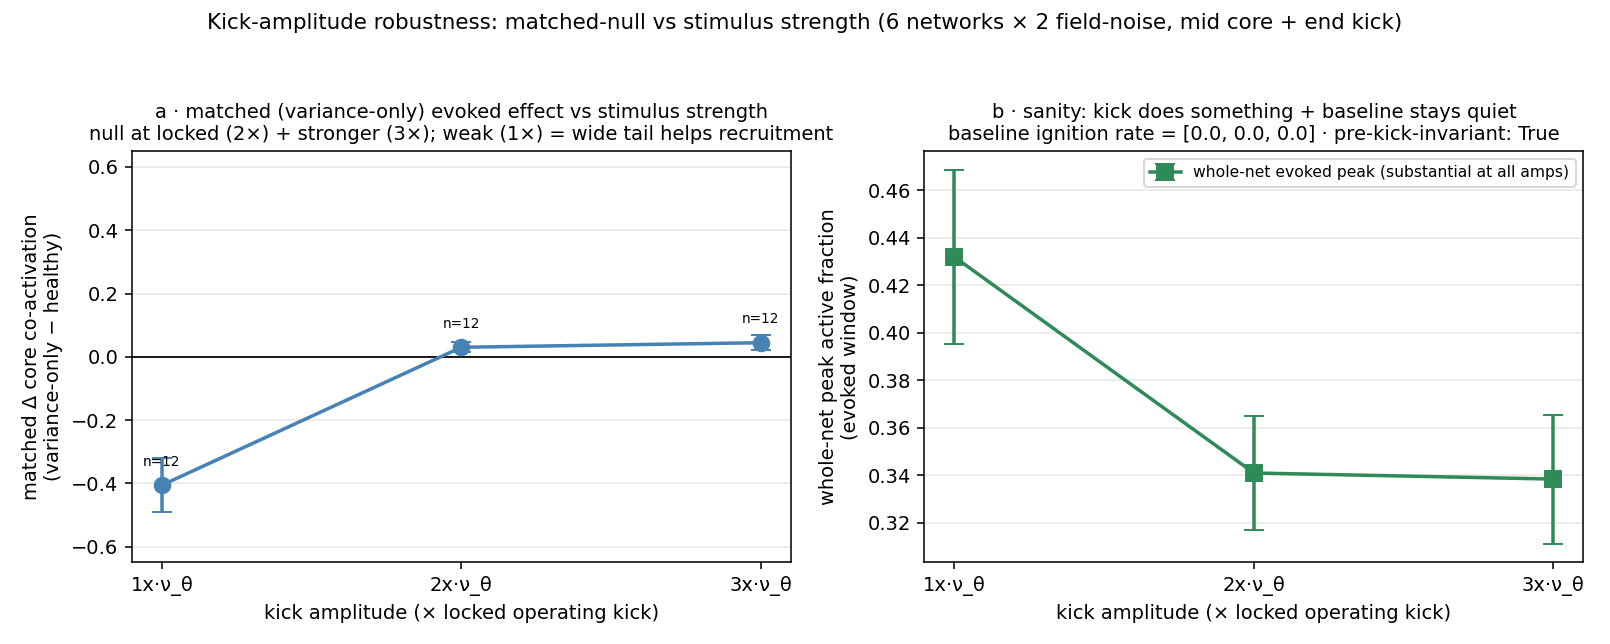
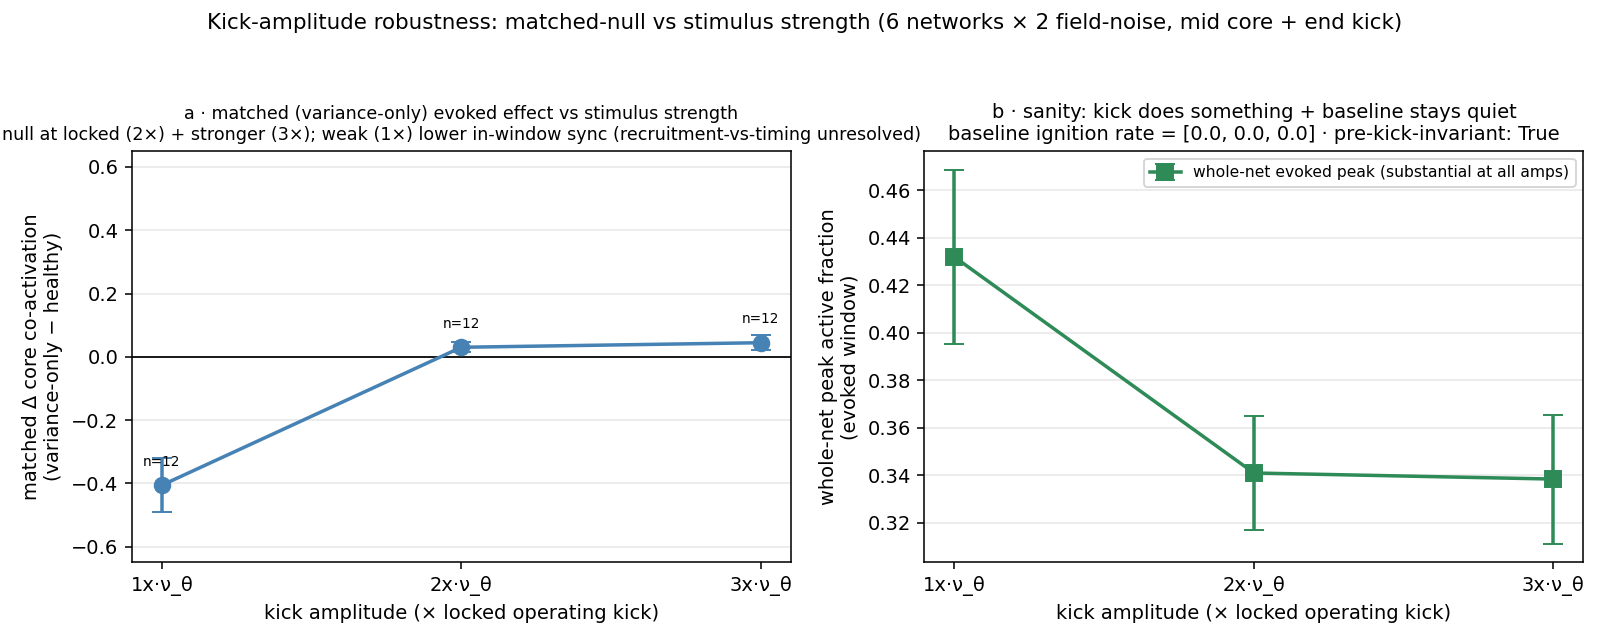
docs(topic4 snn-hetero): hedge B 1× mechanism + tighten synthesis (advisor review)
Advisor caught a verification gap on the one genuinely-novel finding (B's 1× effect):
- B 1× (−0.41 in-window co-activation) is measured by fixed-window peak_active_fraction
  over [150,350] — the exact metric+window that produced the original false "matched
  reduces synchrony" (archive §1 design pivot). At weak drive the narrow core's event
  may be delayed/slower and caught mid-rise, so the low in-window value has TWO
  undiscriminated readings: (a) reduced recruitment [tail helps], or (b) timing shift.
  kick_amp did NOT record per-cell event_peak_t → uncheckable from disk. Hedged §11 +
  digest + README + figure title + memory to "lower in-window sync, mechanism (a)/(b)
  unresolved". Headline (2×/3× null robust) untouched. Added next-step: record
  event_peak_t and confirm 1× narrow event peaks in-window before attributing to tail.
- Tightened §12 synthesis: narrow (no-tail) cores ignite too given enough size+depth
  (r0.6 narrow at 16–16.5), so mean sets the bulk drive; tail-width + core-area MODULATE
  the critical mass — not "absolute number of low-threshold cells decides". Added the
  cross-prediction (large narrow vs small wide core matched on low-threshold count).

Docs-only; no re-run. Session stays at the locked stop point (A+B+C).

Changed region(s): [[0.0, 0.1553, 0.5901, 0.2174]]

diff --git a/scripts/plot_sef_hfo_snn_kick_amp.py b/scripts/plot_sef_hfo_snn_kick_amp.py
@@ -42,8 +42,8 @@ def main():
     rng = max(0.12, max(abs(np.nanmin(ys)), abs(np.nanmax(ys))) * 1.6) if any(np.isfinite(ys)) else 0.12
     axA.set_ylim(-rng, rng)
     axA.set_title("a · matched (variance-only) evoked effect vs stimulus strength\n"
-                  "null at locked (2×) + stronger (3×); weak (1×) = wide tail helps recruitment",
-                  fontsize=10)
+                  "null at locked (2×) + stronger (3×); weak (1×) lower in-window sync "
+                  "(recruitment-vs-timing unresolved)", fontsize=9)
     axA.grid(axis="y", alpha=0.3)
 
     # b — sanity: evoked peak grows; baseline never ignites

diff --git a/docs/archive/topic4/sef_hfo/snn_heterogeneity_mechanism_2026-06-08.md b/docs/archive/topic4/sef_hfo/snn_heterogeneity_mechanism_2026-06-08.md
@@ -171,9 +171,9 @@ kick-OFF（无刺激）：均匀标量 2.3 Hz 安静；宽参差铺满整片 327
 **预注册读法 + 结果：**
 - **roadmap 问题"matched-null 在更强刺激下还是 null 吗" = YES**：matched 诱发同步 Δ（核内 − 健康）在 **2×（锁定工作点）= +0.030±0.016、3×（更强）= +0.045±0.023**，都贴零。**locked-kick 的 matched-null 稳健、且延伸到 3×**。
 - **sanity 全过**：baseline 在任何幅度都**不自点火**（0/0/0 → 干净参考）；unmatched pre-kick 点火潜伏期跨 1×/2×/3× **bit-identical（56.4ms）= pre-kick 不变量确认**（advisor 预言）；kick 在所有幅度都产生实质诱发事件（whole-net 峰 0.34–0.43）。
-- **意外发现（大声标记、不抹平，advisor 纪律）—— 弱刺激下 matched 非零、且是负的**：**1×（弱刺激）matched = −0.406±0.086（中位 −0.54，12 个网络里 10 个为负）**——即弱戳下**收窄参差让核招募的细胞更少**。机制 = **宽分布的低门槛尾巴细胞在刺激边缘时帮忙招募**（弱戳时只有低门槛细胞够得着，宽核有这些尾巴、窄核没有）。这与点火边界的"尾巴帮点火"**同一个机制**，只是出现在弱-诱发招募 regime。**方向是 anti-Rich**（收窄 → 更少同步，不是更多）。
+- **意外观察（大声标记、不抹平，advisor 纪律）—— 弱刺激下 matched 的窗内同步是负的，但机制未定**：**1×（弱刺激）matched = −0.406±0.086（中位 −0.54，12 个网络里 10 个为负）**——即弱戳下窄核在 [150,350] 固定窗内的"一起放电"比宽核**明显更低**。**⚠ 机制有两个未分辨的读法（advisor 抓的核查缺口，正是 §1 设计纠偏踩过的同一个坑）**：(a) 窄核**招募的细胞更少**（宽尾巴在刺激边缘帮招募）；(b) 窄核的事件**更晚/更慢、被固定窗 [150,350] 截在上升段或错过峰**——固定窗会把"事件时移"误读成"同步变化"（§1 第一版误判 matched 降低同步就是这个坑）。**本轮 `kick_amp` 没记录 per-cell `event_peak_t`，从盘上无法分辨 (a)/(b)**；`base_whole_paf`=0.43@1× 只说明**宽**核事件健康在窗内，对**窄**核时序没信息。**所以只能写"弱戳下窄核窗内同步更低（−0.41），是招募更少还是事件延后/变慢、未定"**——要归因到尾巴招募，需补记 `event_peak_t` 确认 1× 窄核事件峰落在 [150,350] 内（next-step，见 plan doc digest 建议⑥）。若是 (a) 则与点火尾巴同机制、anti-Rich；若是 (b) 则是时序效应、非同步效应。**这个不确定不动 headline**（2×/3× 人人都发放、与窗相位无关，null 稳健）。
 
-**这是 overturn 吗？不是。** advisor 守的 overturn 信号是"matched 在**更强**刺激（3×）冒出之前 2× 没有的效应"——**没发生**（3× 仍贴零）。standing 的 locked-kick null 站得稳。1× 的负效应是**对 null 的细化 + 一个新的弱-刺激 regime 发现**：matched-null **专属于 locked kick（2×）及以上**；弱刺激（1×）是另一个 regime，尾巴在那里对招募有用。**"matched = null" 的口径要补上"在 locked kick 及更强下"这个限定。**
+**这是 overturn 吗？不是。** advisor 守的 overturn 信号是"matched 在**更强**刺激（3×）冒出之前 2× 没有的效应"——**没发生**（3× 仍贴零）。standing 的 locked-kick null 站得稳。1× 的负效应是**对 null 的细化**：matched-null **专属于 locked kick（2×）及以上**；弱刺激（1×）窄核窗内同步更低（机制 (a)/(b) 未定，见上）。**"matched = null" 的口径要补上"在 locked kick 及更强下"这个限定。**
 
 **次要观察**：baseline whole-net 诱发峰在弱戳（1× 0.432）反而比强戳（2×/3× ~0.34）**高**——与"弱戳是尾巴/门槛分布起作用的 regime"一致（弱戳更挑细胞、招募对核内门槛分布更敏感；强戳人人都发放、与分布无关）。不过度解读，记录在案。
 
@@ -190,6 +190,6 @@ kick-OFF（无刺激）：均匀标量 2.3 Hz 安静；宽参差铺满整片 327
 - **存在临界核尺寸**：**r=0.3（395 细胞）在 [16,18] 全程不自点火**（连最易兴奋的 16 都不点）——**小核无论多易兴奋都撑不起自点火**（gap-limited 范围内）。这是个真正的**有限尺寸效应**（要够多低门槛细胞才能集体点着；率均值场看不见"临界质量"，放电版看得见）。
 - **尾巴专属（宽 > 窄，承 A）**：宽参差边界在每个半径都比窄高——r0.45 宽 16.5 vs 窄 16.0、r0.6 宽 17.25 vs 窄 16.62。即**宽分布的低门槛尾巴在每个尺寸都帮点火，核越大尾巴细胞越多、效应越强**。与 §9/§10 的 wide-left-of-narrow 一致。
 
-**机制收口**：自点火需要"够多低门槛细胞集体点着"——尾巴提供低门槛细胞（A：宽帮点火 / B：弱戳宽帮招募），核尺寸提供细胞总数。两者都往同一个方向：**低门槛细胞的绝对数量（尾巴宽度 × 核面积）决定能不能集体自点火**，存在一个临界量。
+**机制收口（措辞收紧，advisor）**：自点火需要"够多细胞集体点着、达到临界量"。**平均门槛下移设定整体驱动（bulk drive）——窄核（无尾）只要核够大、平均够低也能点（r0.6 窄在 16–16.5 就点）**，所以不能说"纯靠低门槛尾巴细胞"。**尾巴宽度（A：宽帮点火 / B：弱戳窄核窗内同步更低、机制未定）和核面积（C）是 modulator——它们调节"多容易凑齐临界量"**。临界量存在（C：r0.3 小核全程不点）。**收紧表述**："平均设定整体驱动，尾巴宽度 + 核面积调节临界质量"，**不写**"低门槛细胞绝对数量唯一决定"。**锐利检验（留下一步）**：同样低门槛细胞数下，**大窄核 vs 小宽核**应该点火相近——这是上面 synthesis 的 cross-prediction。
 
 **口径**：screen-grade，6 网络，spec 锁定平均范围（r=0.3 边界 off-scale-low、没在范围内钉死，只知 <16）；gap-limit 没放宽。仍 screen-plus、非正式裁决。

diff --git a/docs/superpowers/plans/2026-06-09-sef-hfo-snn-autonomous-exploration.md b/docs/superpowers/plans/2026-06-09-sef-hfo-snn-autonomous-exploration.md
@@ -51,12 +51,12 @@ gap-limit 不放宽（std 锁 1.5/0.5，mean 下移记录）；matched-null 写"
 
 1. **A — 边界复制（加密 + 全新网络）**：在 8 张**全新独立网络**上重做细网格，边界（宽 16.88 vs 之前 16.86）、宽尾把边界往高平均推、窄参差亚阈升温曲线——**全部复制，无推翻**。最强判别现在是 16.75 档**宽 16/16 vs 窄 2/16**。→ 边界 + 尾巴效应**在两组独立网络上各自成立**，置信度升一档。
 
-2. **B — 更强刺激下还是 null 吗**：固定核，把戳的强度调成 1×/2×/3×。**结论 = matched（纯参差）的诱发同步在锁定强度（2×）和更强（3×）下都贴零 → null 对更强刺激稳健**（这是 roadmap 明确要答的问题，答 YES）。**意外发现（已大声标记、没抹平）**：在**弱戳（1×）**下，收窄参差反而让核招募的细胞**明显更少**（−0.41，10/12 网络）——因为弱戳时只有低门槛细胞够得着，宽核有尾巴、窄核没有。**这跟点火的尾巴是同一个机制**，方向跟 Rich 文献相反（收窄→更少同步）。注意：这**不是**我们守的"更强刺激冒效应"那种推翻——locked-kick 的 null 稳稳的，只是补了一个"弱刺激 regime 尾巴也管招募"的细化。
+2. **B — 更强刺激下还是 null 吗**：固定核，把戳的强度调成 1×/2×/3×。**结论 = matched（纯参差）的诱发同步在锁定强度（2×）和更强（3×）下都贴零 → null 对更强刺激稳健**（这是 roadmap 明确要答的问题，答 YES）。**意外观察（已大声标记、没抹平）**：在**弱戳（1×）**下，窄核在固定窗 [150,350] 内的同步比宽核**明显更低**（−0.41，10/12 网络）。**⚠ 但机制未定（advisor 抓的核查缺口，正是 §1 固定窗踩过的坑）**：是 (a) 窄核招募更少（尾巴帮招募），还是 (b) 窄核事件延后/变慢、被固定窗截在上升段——本轮没记 `event_peak_t`、无法分辨。**只能写"弱戳下窄核窗内同步更低、机制 (a)/(b) 未定"**，要钉死需补记事件峰时刻。**不动 headline**（2×/3× null 稳健）。
 
 3. **C — 病灶核越大越危险吗（新机制轴）**：把核半径从 0.3 加到 0.6mm（395 → 1628 细胞）。**结论 = 核越大、越浅（越健康）的平均就能自点火**（宽边界 <16 → 16.5 → 17.25 随尺寸单调上移）；而且**有一个临界核尺寸**——r=0.3（395 细胞）无论多易兴奋都不自点火（小核撑不起，有限尺寸效应）。宽参差在每个尺寸都比窄容易点（尾巴专属）。**advisor 担心的"大核 baseline 自己烧起来毁掉参考"在 L=3 没发生**（守护干净 0/0/0；那个坑只在 L=1 小网络出现，守护正确分辨了）。
 
-**机制收口（一句话）**：自点火需要"够多低门槛细胞**集体**点着"。**尾巴宽度（A/B）和核面积（C）都在决定低门槛细胞的绝对数量**，存在一个临界量——数量够了就集体点火、不够就点不着。这是放电版独有、率均值场看不见的有限尺寸现象。
+**机制收口（一句话，措辞收紧）**：自点火需要"够多细胞集体点着、达到临界量"。**平均门槛下移设定整体驱动**（窄核无尾，只要够大够低也能点——C: r0.6 窄在 16–16.5 点）；**尾巴宽度（A/B）和核面积（C）是 modulator，调节"多容易凑齐临界量"**，不是"低门槛细胞绝对数量唯一决定"。临界量存在（C: r0.3 小核全程不点）。这是放电版独有、率均值场看不见的有限尺寸现象。**锐利检验（cross-prediction，留下一步）**：同样低门槛细胞数下，大窄核 vs 小宽核 应点火相近。
 
 **诚实边界（全程不变）**：全部 **screen-plus / 单工作点 / 6–8 网络 / 非正式裁决**；gap-limit 没放宽（mean 锁 16–18、std 锁 1.5/0.5、r cap 0.6）；matched-null 写"在这个工作点没复现 Rich、不证否"；B 侧 tail-driven 仍独立不并链。**没有把"screen"爬级成"formal verdict"或"parameter law v2"。**
 
-**建议下一步（给 user 选，未做）**：① 正式裁决需"连接/阈值场/噪声"三类种子分离 + 更多网络；② forward-LFP/HFO 读出层（才敢对应真实 SEEG）；③ B 的弱刺激尾巴招募 regime 可单独深挖（刺激强度 × 参差的二维）；④ C 的 r=0.3 边界没在 spec 范围内钉死（要钉需 mean<16 = 动 gap-limit，框架级决定）；⑤ 率/F-I 配平控制去 Jensen 残留。
+**建议下一步（给 user 选，未做）**：① 正式裁决需"连接/阈值场/噪声"三类种子分离 + 更多网络；② forward-LFP/HFO 读出层（才敢对应真实 SEEG）；③ B 的弱刺激 regime 深挖（刺激强度 × 参差二维）；④ C 的 r=0.3 边界没在 spec 范围内钉死（要钉需 mean<16 = 动 gap-limit，框架级决定）；⑤ 率/F-I 配平控制去 Jensen 残留；**⑥（advisor 直接点的、最便宜）给 `kick_amp` 补记 per-cell `event_peak_t`，确认 1× 窄核事件峰落在 [150,350] 内——分辨 B 弱刺激效应是"招募更少"(a) 还是"事件延后"(b)，再决定能不能归因到尾巴**；⑦ synthesis 锐利检验：大窄核 vs 小宽核（低门槛细胞数配平）应点火相近。

diff --git a/results/topic4_sef_hfo/snn_heterogeneity/figures/README.md b/results/topic4_sef_hfo/snn_heterogeneity/figures/README.md
@@ -46,7 +46,7 @@
 
 ### kick_amp.png（kick 幅度稳健性，2026-06-09 自主探索 B）
 固定 mid 核 + end kick，KICK_BOOST {1×,2×,3×}·ν_θ，只扫 matched+baseline（igniting 跨幅度 bit-identical）。
-- **a matched 诱发同步 vs 幅度**：**2×（锁定）+0.030、3×（更强）+0.045 = 贴零 → matched-null 对更强刺激稳健**（roadmap P1 问题 = YES）；但 **1×（弱）= −0.406±0.086（10/12 网络为负）= 弱戳下收窄参差让核招募更少**（宽尾巴在刺激边缘帮招募，同点火尾巴机制、anti-Rich 方向）。
+- **a matched 诱发同步 vs 幅度**：**2×（锁定）+0.030、3×（更强）+0.045 = 贴零 → matched-null 对更强刺激稳健**（roadmap P1 问题 = YES）；**1×（弱）= −0.406±0.086（10/12 网络为负）= 弱戳下窄核窗内同步更低**。**⚠ 机制未定**：是 (a) 招募更少（尾巴帮招募）还是 (b) 事件延后被固定窗截（§1 固定窗坑）——本轮没记 `event_peak_t`、无法分辨；不动 headline。
 - **b sanity**：baseline 任何幅度都不自点火（0/0/0）；pre-kick 不变量 True（unmatched 潜伏期 56.4ms 三幅度一致）；whole-net 诱发峰 0.34–0.43（弱戳反而略高 = 弱戳更挑门槛分布）。
 
 **关注点**：a 看 2×/3× 贴零（null 稳健）+ 1× 负（弱戳尾巴效应，新发现、非 overturn）；b 看 baseline 不自点火 + pre-kick 不变量。**不是 advisor 守的 overturn（更强刺激冒效应）**——locked-kick null 站得稳，1× 是弱-刺激 regime 细化。